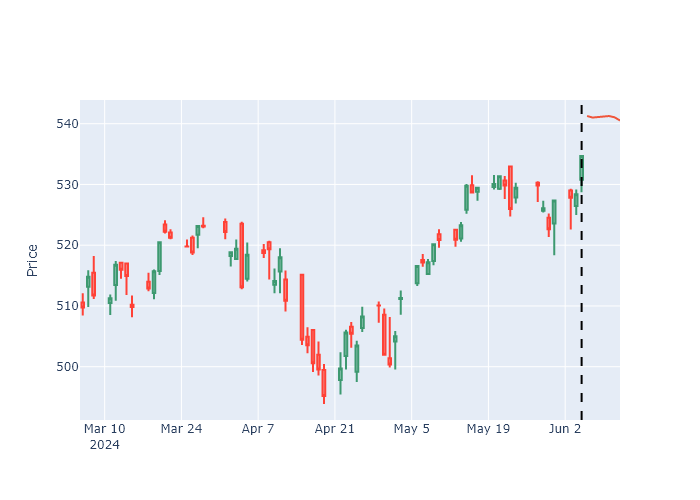
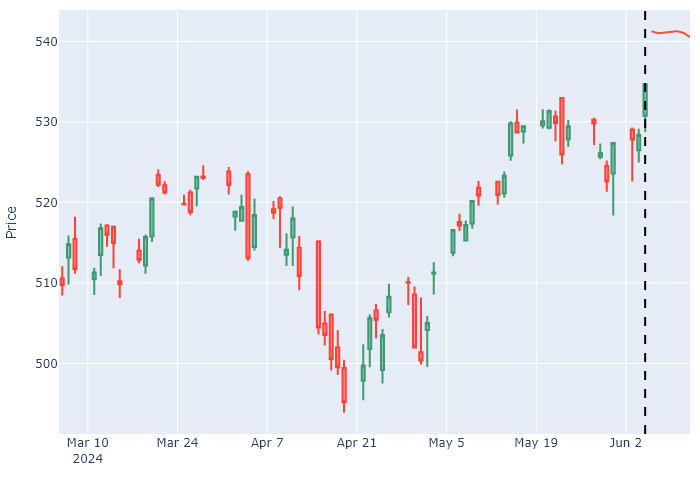
A bit update on the output image style

diff --git a/main.py b/main.py
@@ -242,5 +242,7 @@ if __name__ == "__main__":
         # Add a vertical line at the test_date
         fig.add_vline(x=test_date, line_dash="dash", line_color="black")
 
+        fig.update_layout(margin=dict(l=10, r=10, t=10, b=10))
+
         # save the iamge as a png file
         fig.write_image(f"output/{name_symbol}_{test_date}.png")
